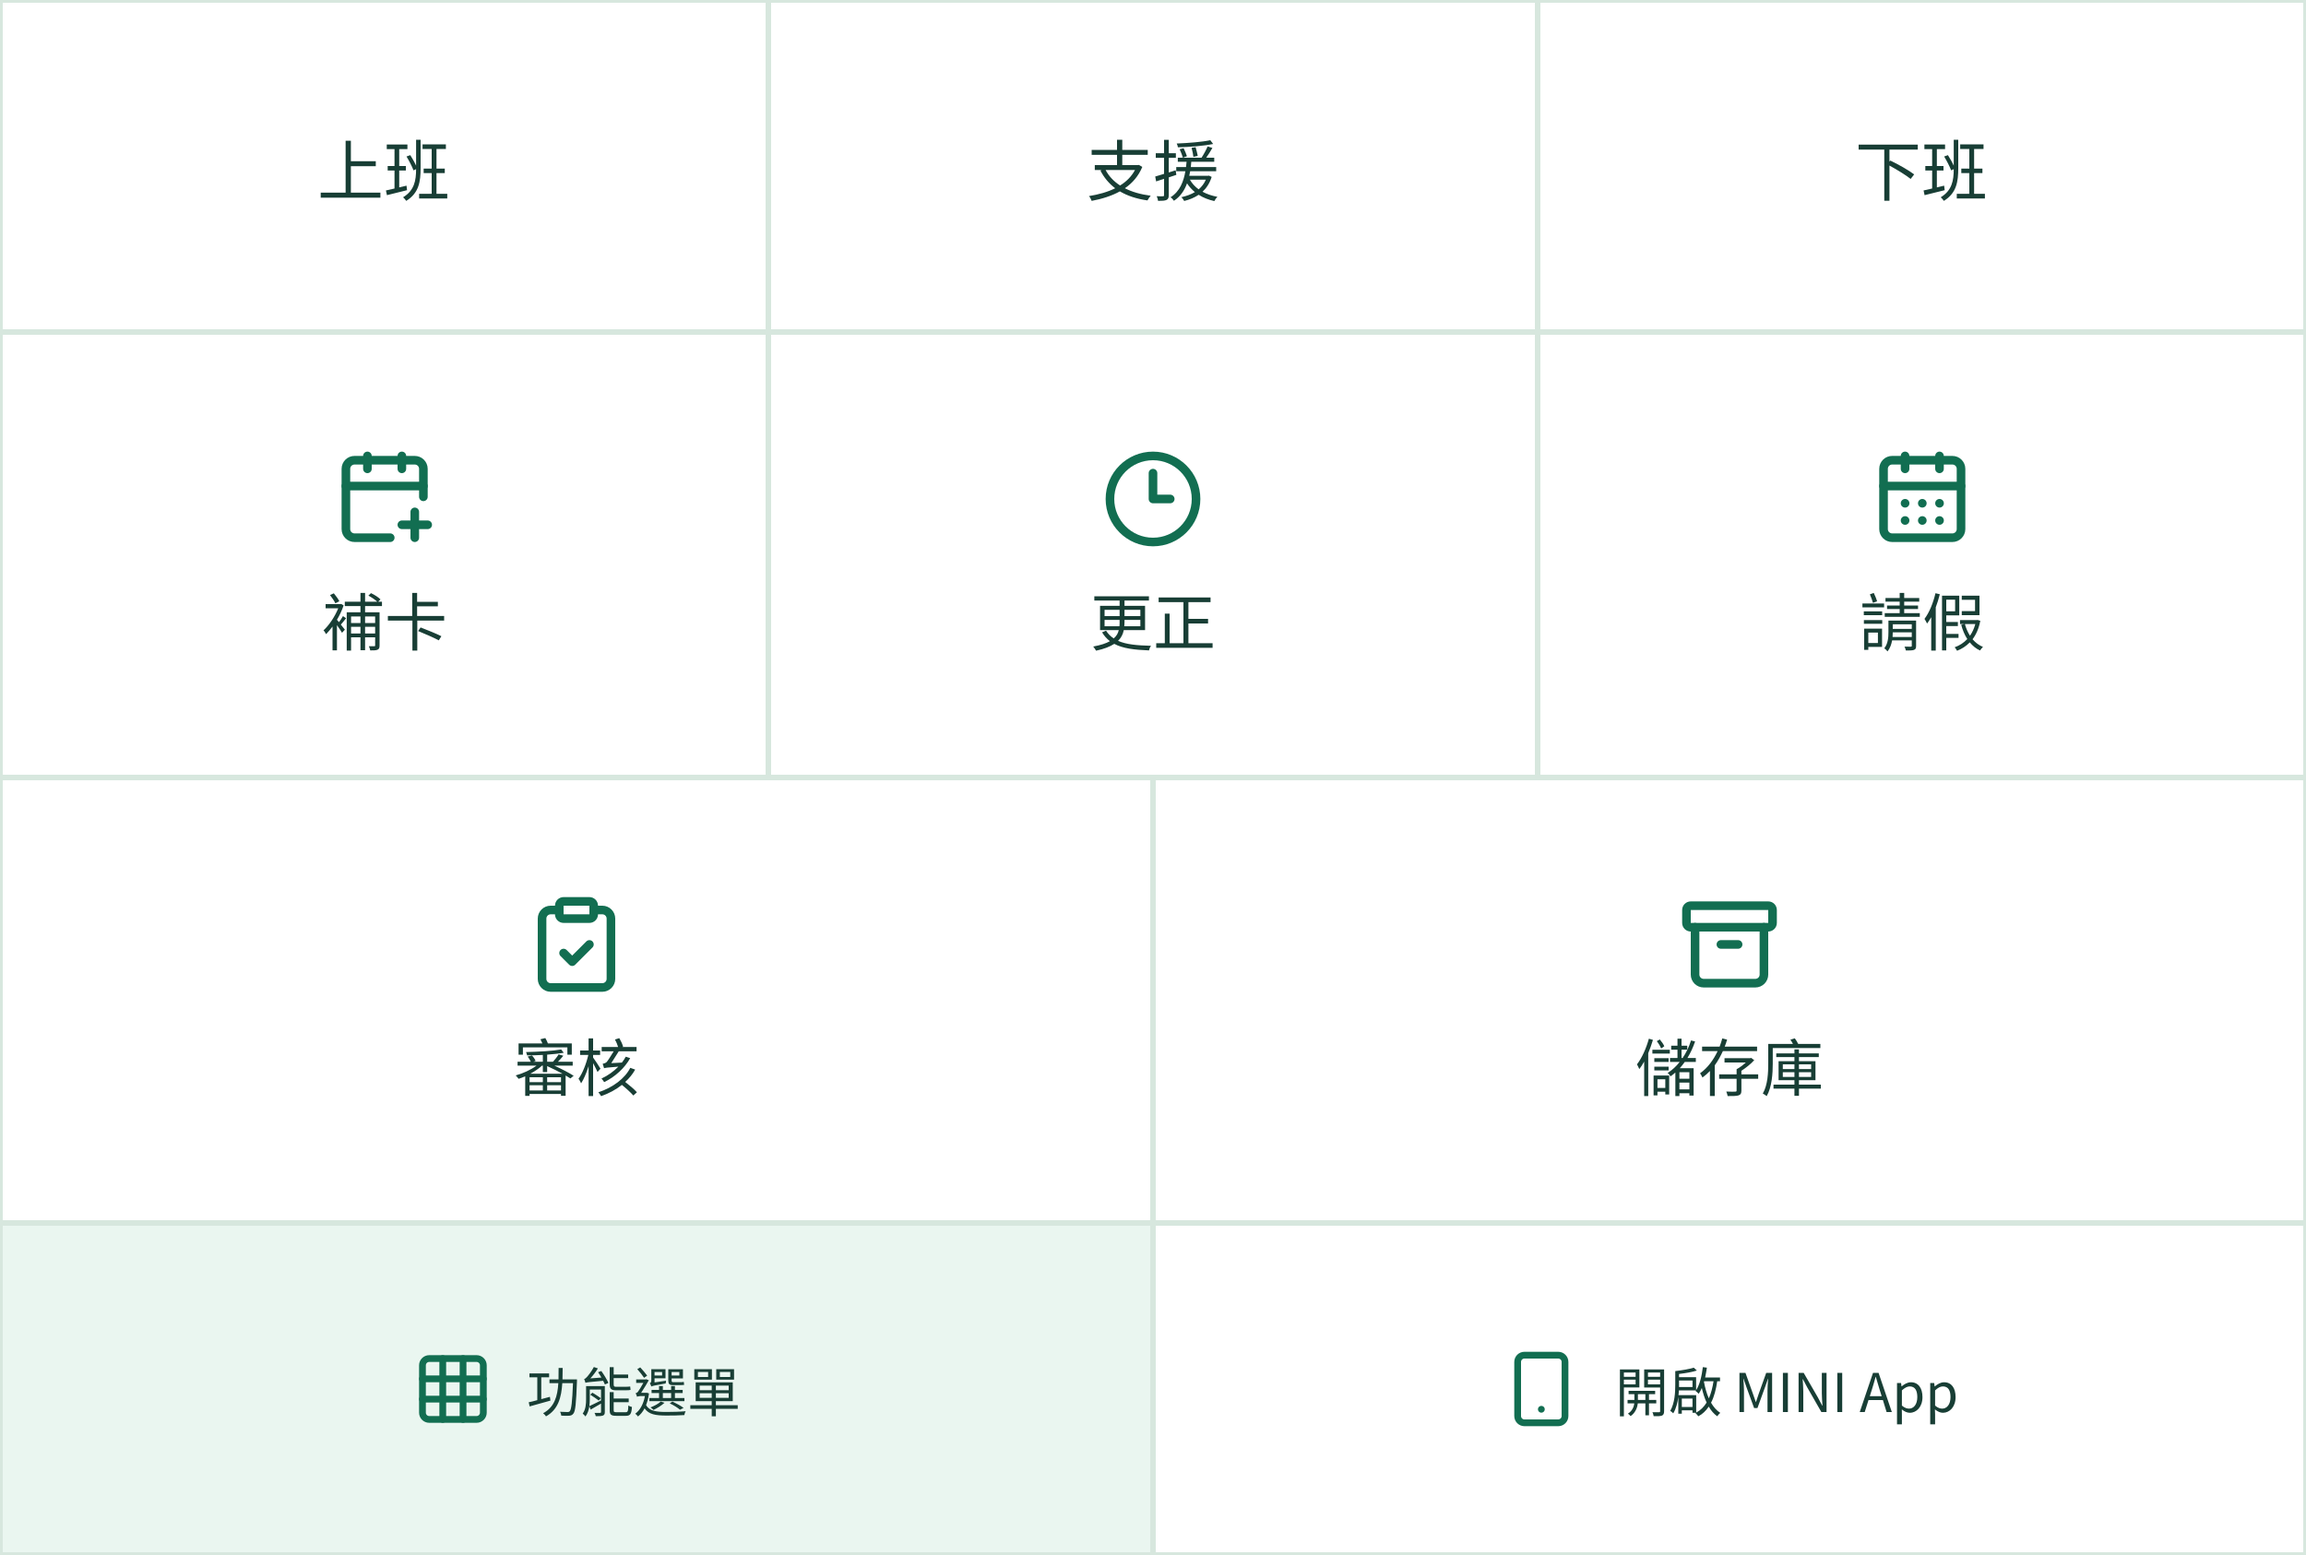
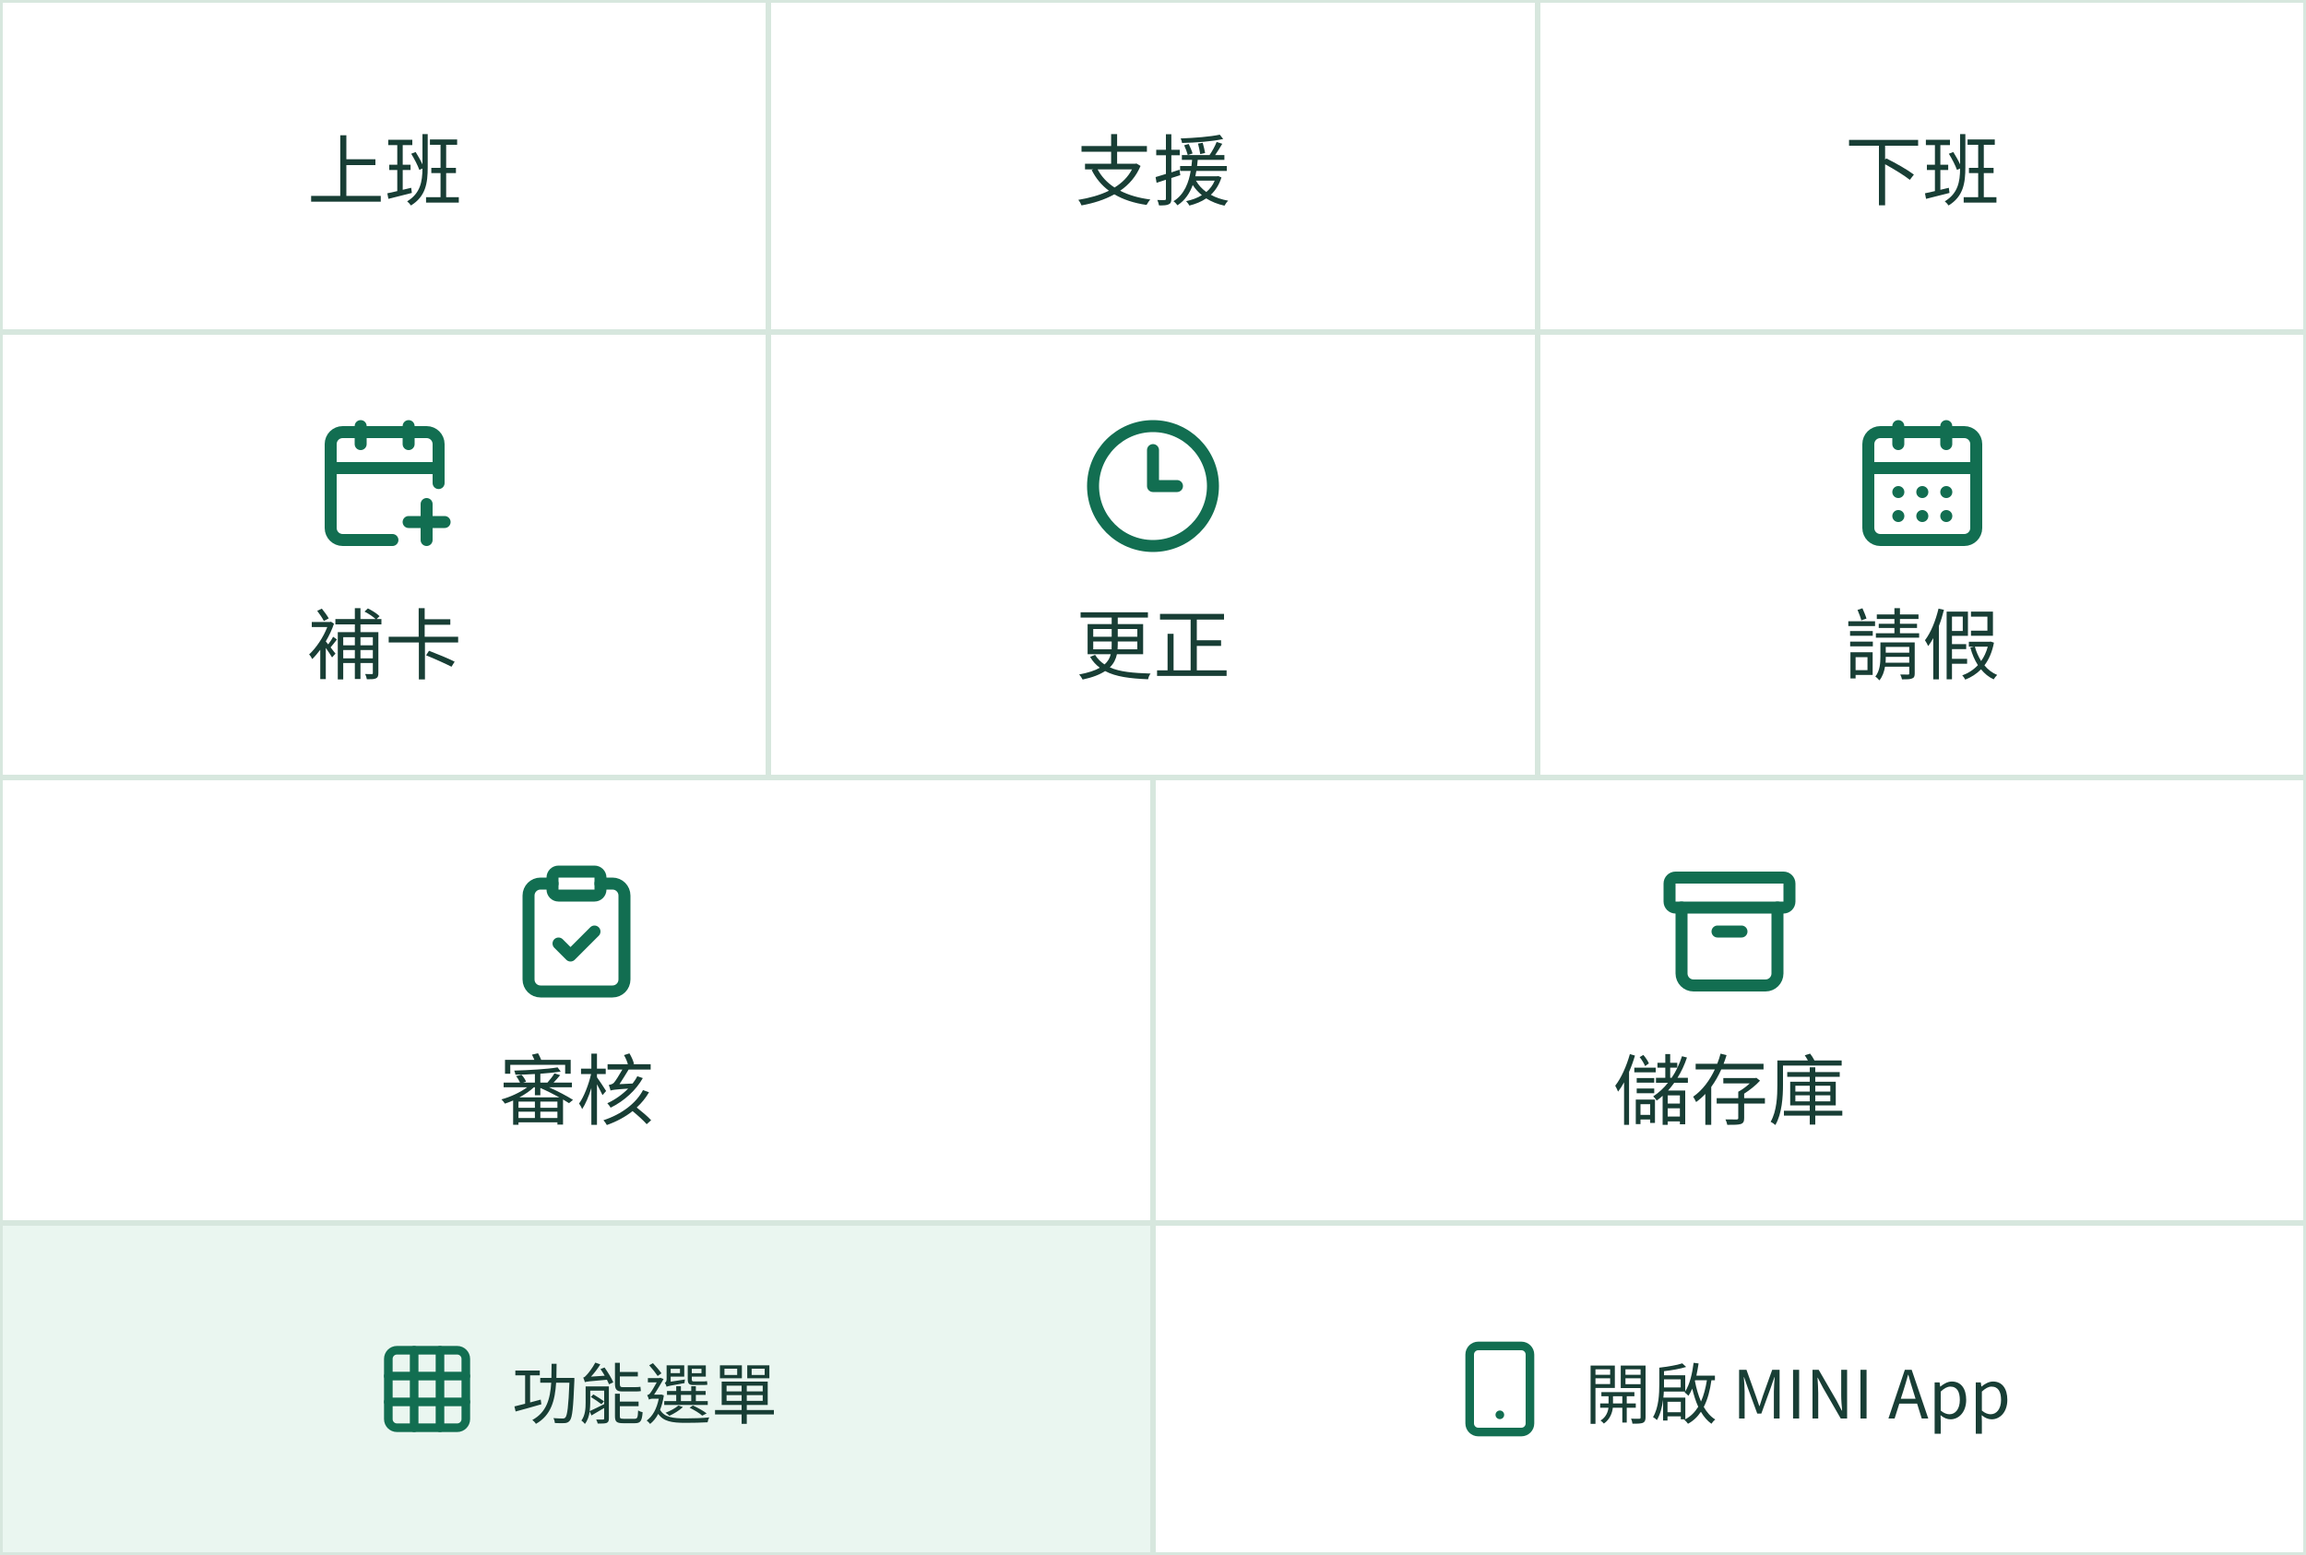
Improve LINE rich menu mobile readability

diff --git a/frontend/miniapp/scripts/render_rich_menus.tsx b/frontend/miniapp/scripts/render_rich_menus.tsx
@@ -131,7 +131,7 @@ async function main() {
               height: layout.tabHeight,
             }}
           >
-            <span style={{ fontSize: 72, fontWeight: current.alias === page.alias ? 700 : 500 }}>
+            <span style={{ fontSize: 84, fontWeight: current.alias === page.alias ? 700 : 500 }}>
               {page.label}
             </span>
           </MenuCell>
@@ -156,16 +156,16 @@ async function main() {
                       display: "flex",
                       flexDirection: "column",
                       alignItems: "center",
-                      gap: 24,
+                      gap: 28,
                     }}
                   >
                     <img
                       alt=""
-                      width={112}
-                      height={112}
-                      src={iconData(FeatureIcon, 112, palette.primary)}
+                      width={156}
+                      height={156}
+                      src={iconData(FeatureIcon, 156, palette.primary)}
                     />
-                    <span style={{ fontSize: 68, fontWeight: 600 }}>{feature.label}</span>
+                    <span style={{ fontSize: 84, fontWeight: 600 }}>{feature.label}</span>
                   </div>
                 </MenuCell>
               );
@@ -203,8 +203,8 @@ async function main() {
               gap: 36,
             }}
           >
-            <img alt="" width={88} height={88} src={iconData(item.Icon, 88, palette.primary)} />
-            <span style={{ fontSize: 58 }}>{item.label}</span>
+            <img alt="" width={112} height={112} src={iconData(item.Icon, 112, palette.primary)} />
+            <span style={{ fontSize: 72, fontWeight: 600 }}>{item.label}</span>
           </MenuCell>
         ))}
       </div>,

diff --git a/backend/internal/transport/line/navigation/menu_test.go b/backend/internal/transport/line/navigation/menu_test.go
@@ -76,6 +76,9 @@ func TestChatRichMenuArtworkLayoutAndActions(t *testing.T) {
 	if len(aliases) != 4 || aliases[0] != "rich-menu-functions" || len(menus) != len(aliases) {
 		t.Fatalf("invalid private menu set: %v, %v", aliases, menus)
 	}
+	if menus[aliases[0]].ChatBarText != "收合／展開" {
+		t.Fatalf("chat bar must describe its client-owned control: %q", menus[aliases[0]].ChatBarText)
+	}
 	for i, alias := range aliases[1:] {
 		menu := menus[alias]
 		if menu.Size.Width != 2500 || menu.Size.Height != 1686 || len(menu.Areas) != 5 {
